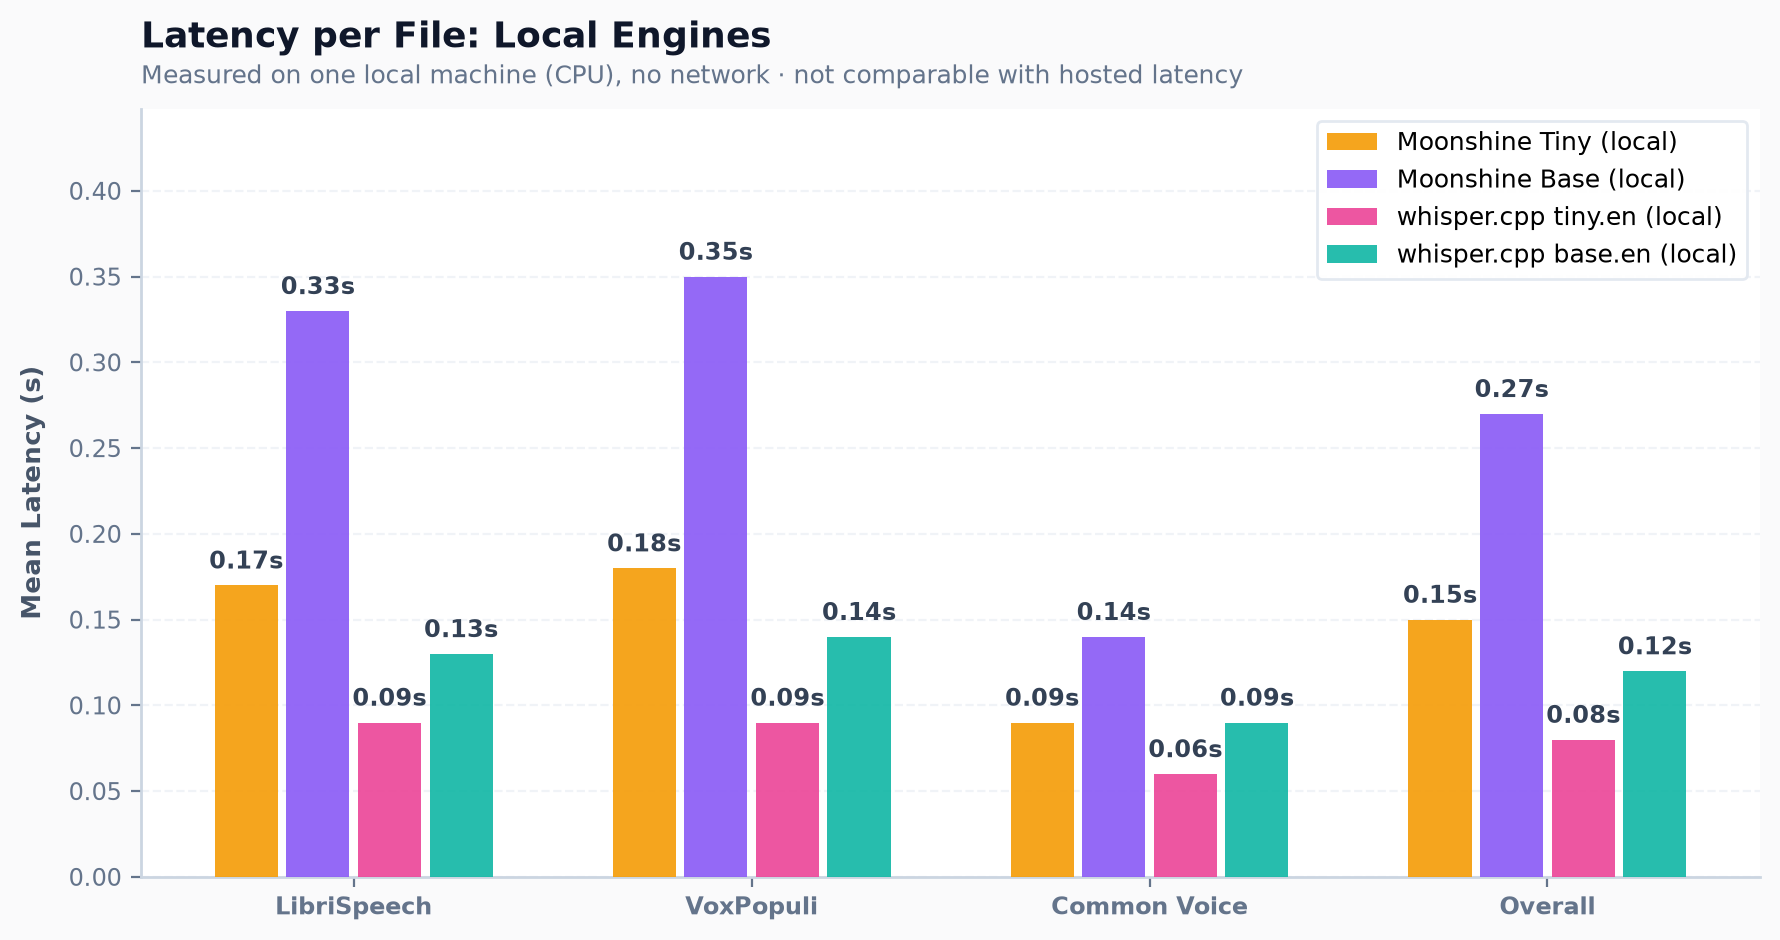
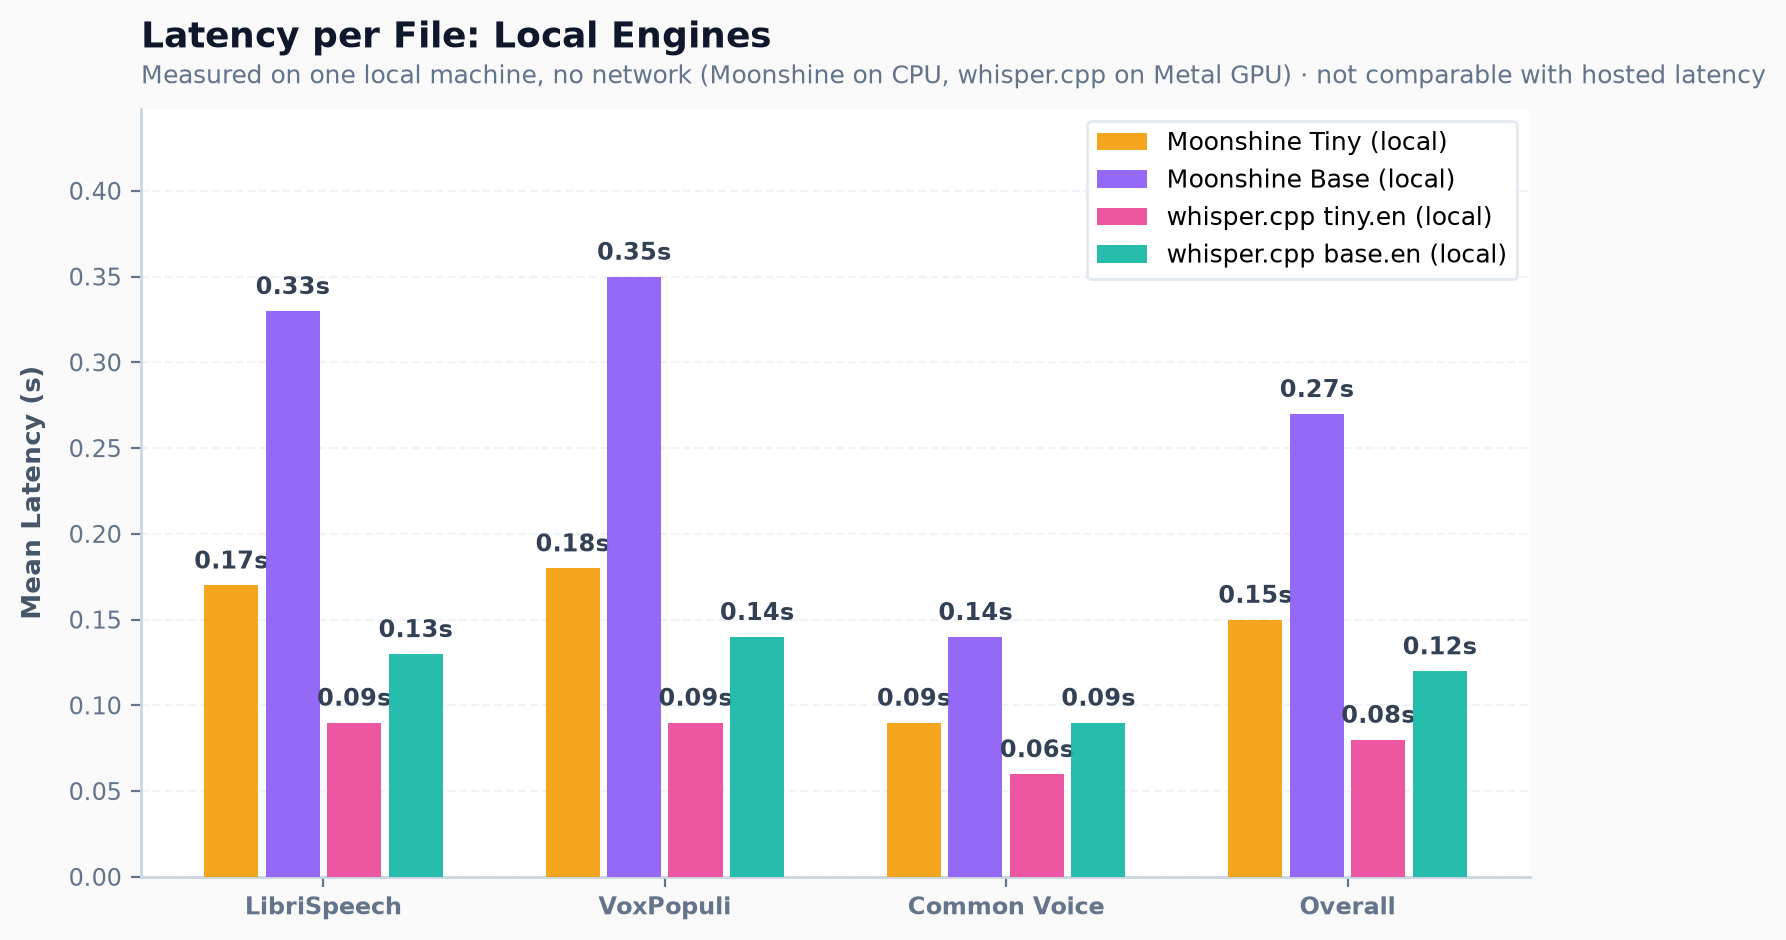
Plots: readable value labels with seven engines, accurate local latency subtitle

Changed region(s): [[0.0927, 0.2468, 0.9888, 0.9872], [0.5871, 0.1234, 0.9888, 0.3085], [0.0927, 0.0309, 0.9888, 0.0926]]

diff --git a/benchmark.py b/benchmark.py
@@ -259,7 +259,8 @@ def plot(summaries):
                         xytext=(0, 4),
                         textcoords="offset points",
                         ha="center", va="bottom",
-                        fontsize=8.5, fontweight="bold",
+                        rotation=0 if n <= 5 else 90,
+                        fontsize=8.5 if n <= 5 else 7.5, fontweight="bold",
                         color="#334155"
                     )
 
@@ -270,7 +271,7 @@ def plot(summaries):
         ax.set_xticklabels([dataset_display.get(d, d) for d in datasets], fontsize=9.5, fontweight="600", color="#334155")
         ax.set_ylabel(ylabel, fontsize=9.5, fontweight="600", color="#475569", labelpad=8)
 
-        ax.set_ylim(0, max(max_val * 1.28, 0.1))
+        ax.set_ylim(0, max(max_val * (1.28 if n <= 5 else 1.4), 0.1))
         ax.tick_params(colors="#64748B", which="both", labelsize=8.5)
         ax.grid(axis="y", linestyle="--", alpha=0.5, color="#E2E8F0", zorder=0)
         ax.grid(axis="x", visible=False)
@@ -299,7 +300,7 @@ def plot(summaries):
     if local:
         render_chart(local, "mean_latency_s", "Mean Latency (s)", "latency_local.png",
                      "Latency per File: Local Engines",
-                     "Measured on one local machine (CPU), no network · not comparable with hosted latency", unit="s")
+                     "Measured on one local machine, no network (Moonshine on CPU, whisper.cpp on Metal GPU) · not comparable with hosted latency", unit="s")
     priced = [s for s in hosted if s.get("price_per_hour_usd") is not None]
     render_chart(priced, "price_per_hour_usd", "USD per Audio Hour ($)", "cost_per_hour.png",
                  "Pricing Comparison: USD per Audio Hour",
